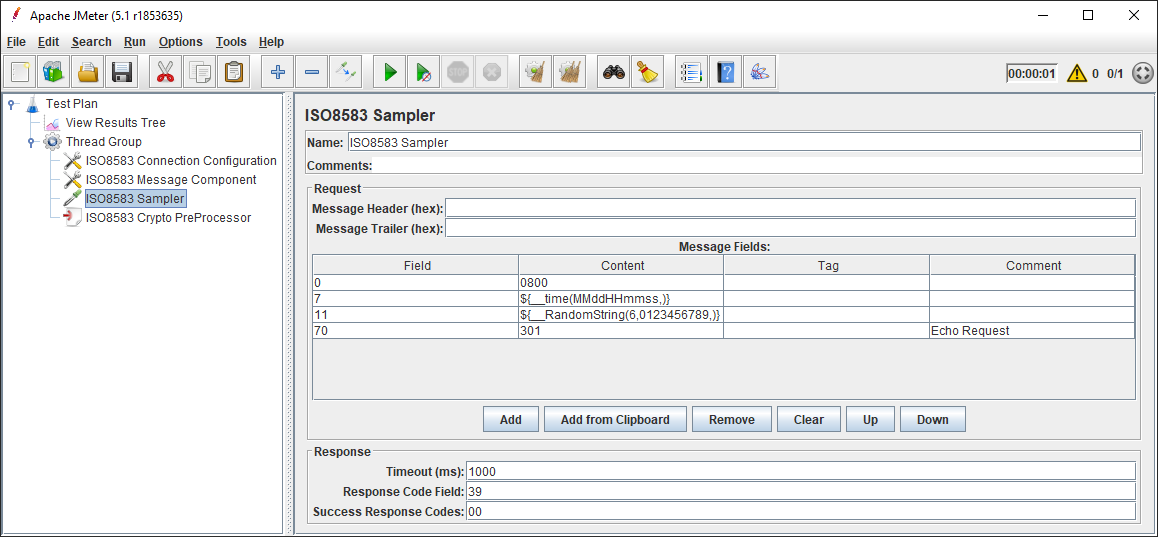
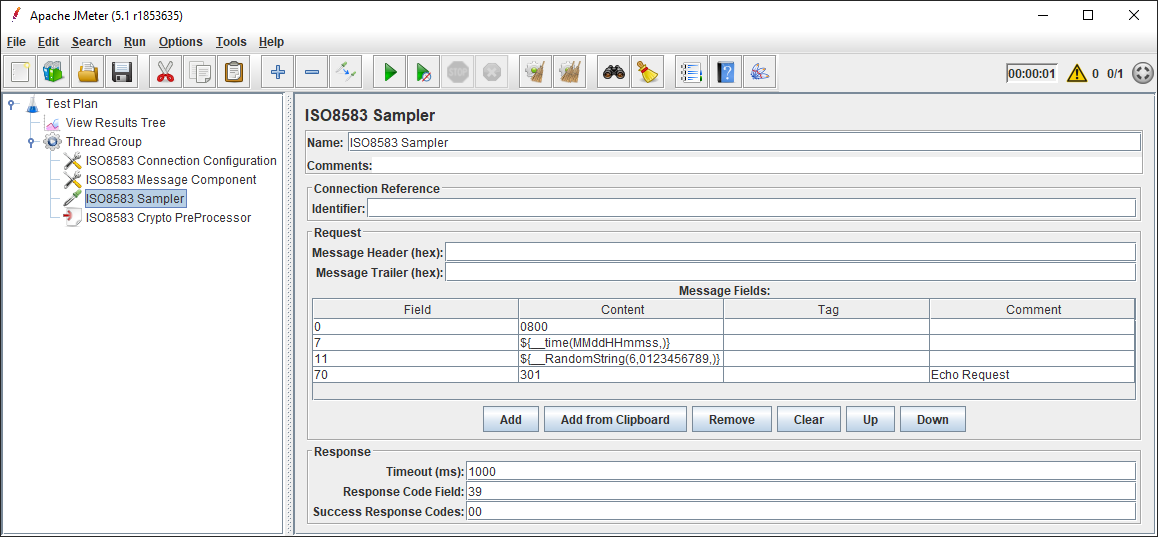
Explicit Connection Identifier (#29)
* Add optional reference ID for explicitly linking Sampler to Connection Config

* Update unit tests and docs

Changed region(s): [[0.2487, 0.3277, 0.9948, 0.7151], [0.7772, 0.6853, 0.8705, 0.7151]]

diff --git a/src/main/java/nz/co/breakpoint/jmeter/iso8583/ISO8583Config.java b/src/main/java/nz/co/breakpoint/jmeter/iso8583/ISO8583Config.java
@@ -95,7 +95,7 @@ public class ISO8583Config extends ConfigTestElement
 
     protected static transient Q2 q2;
     // Internal property name for distinct QBean names if there are more than one ISO8583Config instance:
-    protected static final String CONFIG_KEY = "configKey";
+    protected static final String CONFIGKEY = "configKey";
     protected static final String Q2_LOGGER = "Q2";
 
     static {
@@ -231,7 +231,7 @@ public class ISO8583Config extends ConfigTestElement
 
     // Registers ChannelAdaptor <key>-channel and BaseChannel channel.<key>-channel
     protected QBeanSupport startChannelAdaptor() {
-        final String key = getPropertyAsString(CONFIG_KEY);
+        final String key = getPropertyAsString(CONFIGKEY);
         Element channelDescriptor = getChannelDescriptor(key);
         if (channelDescriptor == null) return null;
         addSSLConfig(channelDescriptor);
@@ -254,7 +254,7 @@ public class ISO8583Config extends ConfigTestElement
 
     // Registers QServer <key>-server and ISOServer server.<key>-server
     protected QBeanSupport startQServer() {
-        final String key = getPropertyAsString(CONFIG_KEY);
+        final String key = getPropertyAsString(CONFIGKEY);
         Element channelDescriptor = getChannelDescriptor(key);
         if (channelDescriptor == null) return null;
 
@@ -290,7 +290,7 @@ public class ISO8583Config extends ConfigTestElement
     // Registers QMUX mux.<key>-mux and connects with <key>-receive and <key>-send Space queues
     // Would usually be called *after* startChannelAdaptor or startQServer.
     protected QBeanSupport startMux() {
-        final String key = getPropertyAsString(CONFIG_KEY);
+        final String key = getPropertyAsString(CONFIGKEY);
 
         // Build QBean deployment descriptor in memory
         // (note the in/out queues need to be cross-wired):
@@ -386,11 +386,13 @@ public class ISO8583Config extends ConfigTestElement
         }
     }
 
-    public String getMuxName() { return getPropertyAsString(CONFIG_KEY)+"-mux"; }
+    public QMUX getMux() throws NameRegistrar.NotFoundException { return (QMUX)QMUX.getMUX(getMuxName()); }
 
-    public String getQServerName() { return getPropertyAsString(CONFIG_KEY)+"-server"; }
+    public String getMuxName() { return getConfigKey()+"-mux"; }
 
-    public String getChannelAdaptorName() { return getPropertyAsString(CONFIG_KEY)+"-channel"; }
+    public String getQServerName() { return getConfigKey()+"-server"; }
+
+    public String getChannelAdaptorName() { return getConfigKey()+"-channel"; }
 
     protected boolean isServer() { return getHost() == null || getHost().isEmpty(); }
 
@@ -398,11 +400,11 @@ public class ISO8583Config extends ConfigTestElement
     public void testStarted() {
         startQ2();
 
-        // Create a distinct key for naming this element's QBeans.
-        // Needs to be a JMeter property so it gets cloned for the sampler's addTestElement().
-        String configKey = String.format("jmeter-%08x", hashCode());
-        setProperty(CONFIG_KEY, configKey);
-        log.debug("'{}' setting up QBeans {}", getName(), configKey);
+        if (getConfigKey() == null || getConfigKey().isEmpty()) {
+            // Create a distinct key for naming this element's QBeans.
+            setConfigKey(String.format("jmeter-%08x", hashCode()));
+        }
+        log.debug("'{}' setting up QBeans {}", getName(), getConfigKey());
 
         if (isServer()) {
             QBeanSupport qserver = startQServer();
@@ -446,6 +448,9 @@ public class ISO8583Config extends ConfigTestElement
     public void testEnded(String s) { testEnded(); }
 
     // Accessors for mapping to TestBean GUI elements...
+    public String getConfigKey() { return getPropertyAsString(CONFIGKEY); }
+    public void setConfigKey(String configKey) { setProperty(new StringProperty(CONFIGKEY, configKey)); }
+
     public String getClassname() { return getPropertyAsString(CLASSNAME); }
     public void setClassname(String classname) { setProperty(new StringProperty(CLASSNAME, classname)); }
 

diff --git a/src/main/java/nz/co/breakpoint/jmeter/iso8583/ISO8583Sampler.java b/src/main/java/nz/co/breakpoint/jmeter/iso8583/ISO8583Sampler.java
@@ -57,6 +57,7 @@ public class ISO8583Sampler extends AbstractSampler
 
     // JMeter Property names (appear in script files, so don't change):
     public static final String
+        CONFIGKEY = "configKey",
         HEADER = "header",
         TRAILER = "trailer",
         FIELDS = "fields",
@@ -75,7 +76,21 @@ public class ISO8583Sampler extends AbstractSampler
 
     @Override
     public boolean applies(ConfigTestElement configElement) {
-        return configElement instanceof ISO8583TestElement;
+        if (!(configElement instanceof ISO8583TestElement)) {
+            return false;
+        }
+        if (!(configElement instanceof ISO8583Config)) {
+            // everything but connection config always applies:
+            return true;
+        }
+        String connectionReference = getConfigKey();
+        if (connectionReference == null || connectionReference.isEmpty()) {
+            // sampler is not pointing to a specific connection, so use scope rules:
+            return true;
+        }
+        boolean keyMatch = connectionReference.equals(((ISO8583Config)configElement).getConfigKey());
+        log.debug((keyMatch ? "Applying" : "Disregarding")+" {} for sampler {}", configElement.getName(), getName());
+        return keyMatch;
     }
 
     @Override
@@ -140,7 +155,7 @@ public class ISO8583Sampler extends AbstractSampler
         try {
             response = sendRequest(request);
         } catch (ISOException | NameRegistrar.NotFoundException e) {
-            log.error("Send failed {}", e.toString(), e);
+            log.error((e instanceof ISOException) ? "Send failed {}" : "Incorrect configuration {}", e.toString(), e);
             result.setResponseMessage(e.toString());
             return result;
         } finally {
@@ -201,7 +216,7 @@ public class ISO8583Sampler extends AbstractSampler
     }
 
     protected ISOMsg sendRequest(ISOMsg request) throws ISOException, NameRegistrar.NotFoundException {
-        MUX mux = QMUX.getMUX(config.getMuxName());
+        MUX mux = config.getMux();
         return mux.request(request, getTimeout());
     }
 
@@ -220,6 +235,9 @@ public class ISO8583Sampler extends AbstractSampler
 
     public void addField(String id, String value) { addField(id, value, ""); }
     public void addField(String id, String value, String tag) { component.addField(new MessageField(id, value, tag)); }
+
+    public String getConfigKey() { return getPropertyAsString(CONFIGKEY); }
+    public void setConfigKey(String configKey) { setProperty(new StringProperty(CONFIGKEY, configKey)); }
 
     public String getHeader() { return getPropertyAsString(HEADER); }
     public void setHeader(String header) { if (!prepared) setProperty(HEADER, header); }

diff --git a/src/test/java/nz/co/breakpoint/jmeter/iso8583/ISO8583SamplerTest.java b/src/test/java/nz/co/breakpoint/jmeter/iso8583/ISO8583SamplerTest.java
@@ -1,12 +1,22 @@
 package nz.co.breakpoint.jmeter.iso8583;
 
 import java.util.ArrayList;
+import java.util.Arrays;
+import org.apache.jmeter.control.GenericController;
+import org.apache.jmeter.threads.TestCompiler;
+import org.apache.jorphan.collections.ListedHashTree;
+import org.junit.Before;
 import org.junit.Test;
 import static org.junit.Assert.*;
 
 public class ISO8583SamplerTest extends ISO8583TestBase {
 
     ISO8583Sampler instance = new ISO8583Sampler();
+
+    @Before
+    public void setup() {
+        configureSampler(instance);
+    }
 
     @Test
     public void shouldApplyClosestConfig() {
@@ -16,13 +26,39 @@ public class ISO8583SamplerTest extends ISO8583TestBase {
         ISO8583Config outer = new ISO8583Config();
         outer.setHost("NOT_THIS");
         outer.setPort("PORT");
-        instance.addTestElement(inner);
-        instance.addTestElement(outer);
 
+        ListedHashTree tree = new ListedHashTree();
+        tree.add(outer);
+        tree.add(new GenericController(), Arrays.asList(inner, instance));
+        TestCompiler compiler = new TestCompiler(tree);
+        tree.traverse(compiler);
+        compiler.configureSampler(instance);
+
+        // apply inner config, without merging or copying outer parts:
         assertEquals(inner.getPackager(), instance.config.getPackager());
         assertEquals(inner.getHost(), instance.config.getHost());
-        assertEquals(outer.getPort(), instance.config.getPort());
+        assertEquals(inner.getPort(), instance.config.getPort());
         assertEquals("", instance.config.getClassname());
+    }
+
+    @Test
+    public void shouldApplyExplicitConfig() {
+        ISO8583Config a = new ISO8583Config();
+        a.setHost("A");
+        a.setConfigKey("A");
+        ISO8583Config b = new ISO8583Config();
+        b.setHost("B");
+        b.setConfigKey("B");
+
+        instance.setConfigKey("B");
+
+        ListedHashTree tree = new ListedHashTree();
+        tree.add(new GenericController(), Arrays.asList(a, b, instance));
+        TestCompiler compiler = new TestCompiler(tree);
+        tree.traverse(compiler);
+        compiler.configureSampler(instance);
+
+        assertEquals(b.getHost(), instance.config.getHost());
     }
 
     @Test

diff --git a/src/test/java/nz/co/breakpoint/jmeter/iso8583/ISO8583TestBase.java b/src/test/java/nz/co/breakpoint/jmeter/iso8583/ISO8583TestBase.java
@@ -4,6 +4,7 @@ import java.io.ByteArrayInputStream;
 import java.io.IOException;
 import java.util.*;
 
+import org.apache.jmeter.testelement.property.CollectionProperty;
 import org.jpos.iso.ISOException;
 import org.jpos.iso.ISOMsg;
 import org.jpos.iso.ISOPackager;
@@ -58,7 +59,7 @@ public class ISO8583TestBase {
         config.setHost("localhost");
         config.setPort("10000");
         config.setReuseConnection(true);
-        config.setProperty(ISO8583Config.CONFIG_KEY, "jmeter");
+        config.setConfigKey("jmeter");
         return config;
     }
 
@@ -89,6 +90,11 @@ public class ISO8583TestBase {
         msg.set(11, String.format("%06d", System.currentTimeMillis() % 1000000));
         msg.set(41, "JMETER");
         return msg;
+    }
+
+    public void configureSampler(ISO8583Sampler sampler) {
+        // Avoid NPE when TestCompiler tries to configure sampler with null fields
+        sampler.setProperty(new CollectionProperty(ISO8583Component.FIELDS, new ArrayList<>()));
     }
 
     public void configureSampler(ISO8583Sampler sampler, ISO8583Config config, MessageField... fields) {

diff --git a/src/main/java/nz/co/breakpoint/jmeter/iso8583/ISO8583ConfigBeanInfo.java b/src/main/java/nz/co/breakpoint/jmeter/iso8583/ISO8583ConfigBeanInfo.java
@@ -17,6 +17,14 @@ public class ISO8583ConfigBeanInfo extends ISO8583TestElementBeanInfo {
 
         PropertyDescriptor p;
 
+        createPropertyGroup("Connection", new String[]{
+            CONFIGKEY,
+        });
+
+        p = property(CONFIGKEY);
+        p.setValue(NOT_UNDEFINED, Boolean.TRUE);
+        p.setValue(DEFAULT, "");
+
         createPropertyGroup("Channel", new String[]{
             CLASSNAME, PACKAGER, HEADER, HOST, PORT, REUSECONNECTION, MAXCONNECTIONS, CONNECTIONSELECTION, CHANNELCONFIG,
         });

diff --git a/src/main/java/nz/co/breakpoint/jmeter/iso8583/ISO8583SamplerBeanInfo.java b/src/main/java/nz/co/breakpoint/jmeter/iso8583/ISO8583SamplerBeanInfo.java
@@ -13,6 +13,13 @@ public class ISO8583SamplerBeanInfo extends ISO8583TestElementBeanInfo {
 
         PropertyDescriptor p;
 
+        createPropertyGroup("Connection", new String[]{
+            CONFIGKEY,
+        });
+        p = property(CONFIGKEY);
+        p.setValue(NOT_UNDEFINED, Boolean.TRUE);
+        p.setValue(DEFAULT, "");
+
         createPropertyGroup("Request", new String[]{
             HEADER, TRAILER, FIELDS,
         });

diff --git a/README.md b/README.md
@@ -63,6 +63,7 @@ Port number to connect to (outgoing from JMeter in client mode; incoming to JMet
     * Server mode: Ignored.
 
 Optional settings:
+- *Connection Reference*: This *Identifier* can be used to distinguish multiple configuration elements in a sampler's Scope.
 - *Channel Header*: 
 A static header string for all messages (sent and received). 
 Note that some Channels use dynamic headers instead (e.g. VAPChannel).
@@ -119,6 +120,10 @@ Its location is configurable via JMeter property `jmeter.iso8583.q2DeployDir`.
 
 
 <h3 id="sampler">ISO8583 Sampler</h3>
+
+The sampler needs an [*ISO8583 Connection Configuration*](#config) in its Scope.
+If there are multiple configuration elements, the optional *Connection Reference*/*Identifier*
+can be used to associate the sampler to a specific one (since v1.2).
 
 ![ISO8583 Sampler](docs/sampler.png)
 
